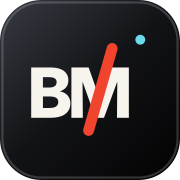
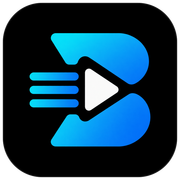
brand: anchor identity in media signal system

diff --git a/components/layout/Nav.tsx b/components/layout/Nav.tsx
@@ -4,6 +4,7 @@ import Link from "next/link";
 import { useState } from "react";
 import CartButton from "@/components/cart/CartButton";
 import AccountLink from "@/components/auth/AccountLink";
+import { withBase } from "@/lib/site";
 
 const LINKS = [
   { href: "/apps", label: "Software" },
@@ -27,7 +28,8 @@ export default function Nav() {
       <nav className="container-page bm-nav-inner" aria-label="Main navigation">
         <Link href="/" className="bm-logo" onClick={() => setOpen(false)}>
           <span className="bm-logo-glyph" aria-hidden>
-            B∕M
+            {/* eslint-disable-next-line @next/next/no-img-element */}
+            <img src={withBase("/brand/barbu-media-mark.png")} alt="" />
           </span>
           <span>
             <strong>BARBU MEDIA SOFTWARE</strong>

diff --git a/components/layout/Footer.tsx b/components/layout/Footer.tsx
@@ -1,6 +1,6 @@
 import Link from "next/link";
 import SwissMark from "@/components/ui/SwissMark";
-import { SITE } from "@/lib/site";
+import { SITE, withBase } from "@/lib/site";
 
 const COLUMNS = [
   {
@@ -50,7 +50,8 @@ export default function Footer() {
         <div className="bm-footer-brand">
           <Link href="/" className="bm-logo">
             <span className="bm-logo-glyph" aria-hidden>
-              B∕M
+              {/* eslint-disable-next-line @next/next/no-img-element */}
+              <img src={withBase("/brand/barbu-media-mark.png")} alt="" />
             </span>
             <span>
               <strong>BARBU MEDIA SOFTWARE</strong>

diff --git a/app/globals.css b/app/globals.css
@@ -3331,7 +3331,7 @@ img {
   margin-inline: auto;
   padding: 1.4rem;
   border: 1px solid rgba(244,236,227,.26);
-  background: rgba(255,255,255,.045);
+  background: #000;
 }
 
 .ba-zero-stage img { width: 100%; }
@@ -4521,6 +4521,12 @@ img {
   font-size: .55rem;
 }
 
+.bm-logo-glyph img {
+  width: 78%;
+  height: 78%;
+  object-fit: contain;
+}
+
 .bm-logo strong {
   font-size: .66rem;
   font-weight: 600;
@@ -4573,7 +4579,7 @@ img {
   object-fit: cover;
   object-position: 61% center;
   transform: none;
-  filter: saturate(.78) contrast(1.02);
+  filter: saturate(1.05) contrast(1.04);
 }
 
 .publisher-hero-inner {

diff --git a/components/home/Hero.tsx b/components/home/Hero.tsx
@@ -13,8 +13,8 @@ export default function Hero() {
         <img
           className="publisher-hero-art rise"
           style={d(0.08)}
-          src={withBase("/art/barbu-clinical-materials.png")}
-          alt="A precise composition of white ceramic, optical glass and aluminium"
+          src={withBase("/art/barbu-media-signal-blueprint.png")}
+          alt="A media transformation blueprint connecting video frames, aspect ratios, timelines and audio waveforms"
           width="1536"
           height="1024"
           loading="eager"

diff --git a/app/layout.tsx b/app/layout.tsx
@@ -42,7 +42,7 @@ export const metadata: Metadata = {
   },
   icons: {
     icon: [
-      { url: "/icon.svg", type: "image/svg+xml" },
+      { url: "/icon.png", sizes: "512x512", type: "image/png" },
       { url: "/favicon-32x32.png", sizes: "32x32", type: "image/png" },
       { url: "/favicon.ico", sizes: "any" },
     ],
